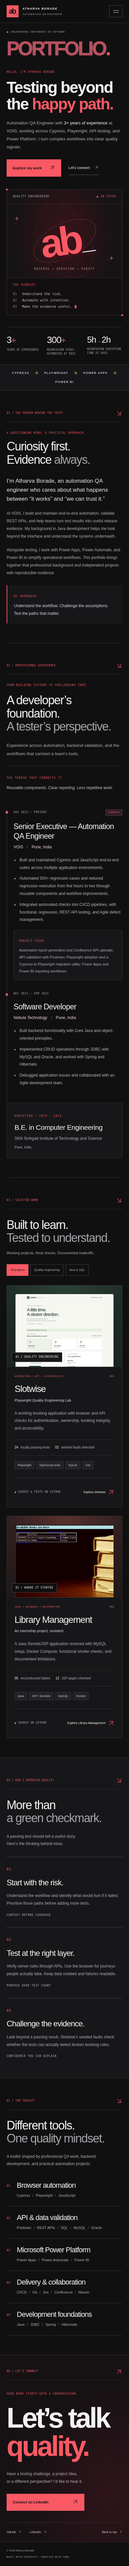
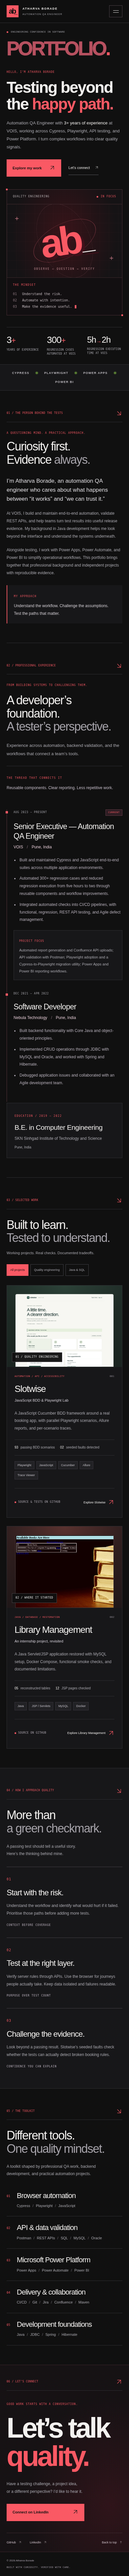
Show JavaScript Cucumber BDD, Allure and verified tracing in Slotwise portfolio

diff --git a/site/index.html b/site/index.html
@@ -38,7 +38,7 @@
 </div></div></section>
 <section class="section-wrap content-section" id="work" aria-labelledby="work-title"><div class="section-label"><span>03 / SELECTED WORK</span><span class="section-mark" aria-hidden="true"><svg class="arrow-icon" viewBox="0 0 24 24" aria-hidden="true"><path d="M6 6 18 18M6 18h12V6"/></svg></span></div><div class="section-heading"><div><h2 id="work-title">Built to learn.<br><span>Tested to understand.</span></h2><p>Working projects. Real checks. Documented tradeoffs.</p></div><div class="project-filters" role="group" aria-label="Filter projects"><button class="filter active" data-filter="all" aria-pressed="true">All projects</button><button class="filter" data-filter="quality" aria-pressed="false">Quality engineering</button><button class="filter" data-filter="java" aria-pressed="false">Java &amp; SQL</button></div></div><p id="filter-status" class="sr-only" role="status" aria-live="polite">Showing 2 projects</p>
 <div class="projects-grid">
-<article class="project-card featured" data-project="quality"><div class="project-visual slotwise-visual"><img src="assets/slotwise.png" width="1440" height="1286" loading="lazy" alt="Slotwise booking interface showing coach selection and a confirmed appointment"><span class="image-tag">01 / QUALITY ENGINEERING</span></div><div class="project-body"><div class="project-topline"><span class="project-category">AUTOMATION / API / ACCESSIBILITY</span><span class="project-index">001</span></div><h3>Slotwise</h3><p class="project-subtitle">Playwright Quality Engineering Lab</p><p>A working booking application with browser and API checks for authentication, ownership, booking integrity, and accessibility.</p><div class="project-evidence"><span><b>24</b> locally passing tests</span><span><b>02</b> seeded faults detected</span></div><div class="tags"><span>Playwright</span><span>TypeScript tests</span><span>SQLite</span><span>Axe</span></div><div class="project-footer"><span class="project-state"><span class="status-dot" aria-hidden="true"></span> SOURCE &amp; TESTS ON GITHUB</span><button class="case-study" data-case="slotwise">Explore Slotwise <span aria-hidden="true"><svg class="arrow-icon" viewBox="0 0 24 24" aria-hidden="true"><path d="M6 18 18 6M6 6h12v12"/></svg></span></button></div></div></article>
+<article class="project-card featured" data-project="quality"><div class="project-visual slotwise-visual"><img src="assets/slotwise.png" width="1440" height="1286" loading="lazy" alt="Slotwise booking interface showing coach selection and a confirmed appointment"><span class="image-tag">01 / QUALITY ENGINEERING</span></div><div class="project-body"><div class="project-topline"><span class="project-category">AUTOMATION / API / ACCESSIBILITY</span><span class="project-index">001</span></div><h3>Slotwise</h3><p class="project-subtitle">JavaScript BDD &amp; Playwright Lab</p><p>A JavaScript Cucumber BDD framework around a real booking app, with parallel Playwright scenarios, Allure reports, and per-scenario traces.</p><div class="project-evidence"><span><b>93</b> passing BDD scenarios</span><span><b>02</b> seeded faults detected</span></div><div class="tags"><span>Playwright</span><span>JavaScript</span><span>Cucumber</span><span>Allure</span><span>Trace Viewer</span></div><div class="project-footer"><span class="project-state"><span class="status-dot" aria-hidden="true"></span> SOURCE &amp; TESTS ON GITHUB</span><button class="case-study" data-case="slotwise">Explore Slotwise <span aria-hidden="true"><svg class="arrow-icon" viewBox="0 0 24 24" aria-hidden="true"><path d="M6 18 18 6M6 6h12v12"/></svg></span></button></div></div></article>
 <article class="project-card" data-project="java"><div class="project-visual library-visual"><img src="assets/library.png" width="1280" height="720" loading="lazy" alt="Original Library Management interface listing synthetic sample books"><span class="image-tag">02 / WHERE IT STARTED</span></div><div class="project-body"><div class="project-topline"><span class="project-category">JAVA / DATABASE / RESTORATION</span><span class="project-index">002</span></div><h3>Library Management</h3><p class="project-subtitle">An internship project, revisited</p><p>A Java Servlet/JSP application restored with MySQL setup, Docker Compose, functional smoke checks, and documented limitations.</p><div class="project-evidence"><span><b>05</b> reconstructed tables</span><span><b>12</b> JSP pages checked</span></div><div class="tags"><span>Java</span><span>JSP / Servlets</span><span>MySQL</span><span>Docker</span></div><div class="project-footer"><span class="project-state"><span class="status-dot" aria-hidden="true"></span> SOURCE ON GITHUB</span><button class="case-study" data-case="library">Explore Library Management <span aria-hidden="true"><svg class="arrow-icon" viewBox="0 0 24 24" aria-hidden="true"><path d="M6 18 18 6M6 6h12v12"/></svg></span></button></div></div></article>
 </div></section>
 <section class="process-section"><div class="section-wrap content-section"><div class="section-label"><span>04 / HOW I APPROACH QUALITY</span><span class="section-mark" aria-hidden="true"><svg class="arrow-icon" viewBox="0 0 24 24" aria-hidden="true"><path d="M6 6 18 18M6 18h12V6"/></svg></span></div><div class="section-heading"><h2>More than<br><span>a green checkmark.</span></h2><p class="process-intro">A passing test should tell a useful story.<br>Here’s the thinking behind mine.</p></div><div class="process-grid"><article><span class="step-number">01</span><h3>Start with the risk.</h3><p>Understand the workflow and identify what would hurt if it failed. Prioritise those paths before adding more tests.</p><span class="process-foot">CONTEXT BEFORE COVERAGE</span></article><article><span class="step-number">02</span><h3>Test at the right layer.</h3><p>Verify server rules through APIs. Use the browser for journeys people actually take. Keep data isolated and failures readable.</p><span class="process-foot">PURPOSE OVER TEST COUNT</span></article><article><span class="step-number">03</span><h3>Challenge the evidence.</h3><p>Look beyond a passing result. Slotwise’s seeded faults check whether the tests can actually detect broken booking rules.</p><span class="process-foot">CONFIDENCE YOU CAN EXPLAIN</span></article></div></div></section>

diff --git a/site/app.js b/site/app.js
@@ -59,17 +59,17 @@ for (const filter of filters) {
 
 const caseStudies = {
   slotwise: `
-    <h2 id="dialog-title" tabindex="-1">Slotwise — Playwright Quality Engineering Lab</h2>
-    <p>A small booking product paired with a risk-based automation suite. Its purpose is to demonstrate how tests protect booking integrity and account ownership.</p>
-    <img class="case-image" src="assets/slotwise.png" alt="Slotwise's booking screen with a confirmed appointment" width="1440" height="1286">
+    <h2 id="dialog-title" tabindex="-1">Slotwise — JavaScript BDD &amp; Playwright Lab</h2>
+    <p>A JavaScript Cucumber BDD framework paired with a real booking application. Playwright drives browser and API actions; Allure explains scenario results; Trace Viewer preserves recorded debugging evidence.</p>
+    <img class="case-image" src="assets/slotwise-allure.png" alt="Generated Allure dashboard showing 93 passed Cucumber scenarios" width="1440" height="1000">
     <h3>The engineering question</h3>
     <p>What stops two accounts from booking the same coach at the same time? And can a user cancel someone else’s appointment through the API?</p>
     <h3>What the project demonstrates</h3>
-    <ul><li>18 API checks and 6 browser checks, with isolated accounts and disposable databases.</li><li>Sequential and concurrent booking checks, authorization checks, and session revocation.</li><li>Axe accessibility scans, a keyboard check, and mobile layout checks.</li><li>Two test-only faults: removing booking uniqueness and removing cancellation ownership. The intended assertions detect both.</li><li>GitHub Actions runs the baseline suite and targeted fault experiments, with retained HTML/JSON reports and failure traces.</li></ul>
+    <ul><li>93 Gherkin scenarios: 73 API and 20 UI, implemented in JavaScript with Cucumber and Playwright.</li><li>Three parallel workers with scenario-isolated browser contexts, accounts, cookies, and disposable database fixtures.</li><li>Authentication, booking conflicts, cancellation, validation, authorization, keyboard/mobile journeys, and accessibility scans.</li><li>Two test-only faults: removing booking uniqueness and removing cancellation ownership. The intended assertions detect both.</li><li>Allure reporting with step screenshots and network summaries, plus recorded browser/API traces with Gherkin step groups, DOM snapshots, and native HTTP records.</li></ul>
     <h3>The evidence</h3>
-    <p>24 baseline tests passed locally and in GitHub Actions. Both seeded faults were detected. These are targeted experiments, not a complete security audit or mutation score.</p>
+    <p>93 scenarios and 586 steps passed locally and in GitHub Actions, with a separate three-worker headed-browser smoke check. Evidence verification confirmed three overlapping workers, 185 unique contexts, 370 trace archives, and 93 Allure results. Both seeded faults were detected. These are targeted experiments, not a complete security audit or mutation score.</p>
     <p class="case-status"><strong>Current status:</strong> Source published on GitHub. The full booking application runs locally; there is no public hosted booking service.</p>
-    <p><strong>Stack:</strong> Playwright, TypeScript tests, Express, SQLite, Axe, GitHub Actions configuration.</p>
+    <p><strong>Stack:</strong> JavaScript, Cucumber, Playwright, Allure, Trace Viewer, Express, SQLite, Axe, GitHub Actions.</p>
     <a class="button button-primary" href="https://github.com/atharvaborade/playwright-quality-lab" target="_blank" rel="noopener noreferrer">View project source <span aria-hidden="true"><svg class="arrow-icon" viewBox="0 0 24 24" aria-hidden="true"><path d="M6 18 18 6M6 6h12v12"/></svg></span></a>
   `,
   library: `

diff --git a/tests/portfolio.spec.js b/tests/portfolio.spec.js
@@ -39,7 +39,7 @@ test('case studies open the selected project and return focus after closing', as
   const slotwise = page.getByRole('button', { name: 'Explore Slotwise', exact: true });
   await slotwise.click();
   await expect(dialog).toBeVisible();
-  await expect(dialog.getByRole('heading', { name: 'Slotwise — Playwright Quality Engineering Lab', exact: true })).toBeVisible();
+  await expect(dialog.getByRole('heading', { name: 'Slotwise — JavaScript BDD & Playwright Lab', exact: true })).toBeVisible();
   await expect(dialog.getByRole('link', { name: 'View project source', exact: true })).toHaveAttribute('href', 'https://github.com/atharvaborade/playwright-quality-lab');
   await expect(dialog.locator('.case-status')).toContainText('Source published on GitHub');
   await dialog.getByRole('button', { name: 'Close case study', exact: true }).click();

diff --git a/docs/CONTENT-AND-VALIDATION.md b/docs/CONTENT-AND-VALIDATION.md
@@ -8,7 +8,7 @@
 - Education: B.E. Computer Engineering, SKN Sinhgad Institute of Technology and Science,2019–2022, Pune.
 - Career metrics:300+ automated regression cases and execution time reduced from5hours to2hours, as reported in the résumé. These are the user's professional claims, separate from locally verified portfolio test results.
 - LinkedIn: user supplied `https://www.linkedin.com/in/atharva-borade/`.
-- Slotwise evidence: locally recorded24 passing checks (18 API,6 browser),2 targeted seeded defects detected. Source is published at https://github.com/atharvaborade/playwright-quality-lab. Hosted type checking, the24-test baseline and both seeded faults passed in https://github.com/atharvaborade/playwright-quality-lab/actions/runs/42113819326.
+- Slotwise migration evidence:93 JavaScript Cucumber scenarios (73 API,20 UI),586 steps,3 observed parallel workers,185 uniquecontexts,370 tracearchives,93 Allure results,2 seededdefects caught locally. Current sourceURLunchanged. Hosted baseline, parallel evidence, three-worker headed smoke and seeded-fault checks passed in https://github.com/atharvaborade/playwright-quality-lab/actions/runs/42121961009.
 - Library Management evidence: previously pushed restoration;7 servlets compiled,12 JSP pages checked,5-table reconstruction and functional smoke workflow. No public application hosting claim.
 
 A résumé was supplied for professional details. Its original PDF, personal phone number and email address are intentionally not copied into the public site. LinkedIn is the contact route. Employer work is summarised without employer source code or internal project identifiers. No portrait or certification was provided. The reel is only an aesthetic reference.

diff --git a/README.md b/README.md
@@ -61,6 +61,6 @@ GitHub has confirmed a successful deployment to that address. Keep Pages → Sou
 
 Current content is based on the supplied résumé, the confirmed LinkedIn URL, and the recorded portfolio-project evidence. It includes the VOIS and Nebula Technology roles, degree, relevant tools, and résumé-reported career results. The original PDF, personal email, and phone number are not part of the published site. There is no portrait, fabricated certification, employer source code, or invented project outcome.
 
-Library Management source was published previously; its full app runs locally. Slotwise source and its CI workflow are now published at https://github.com/atharvaborade/playwright-quality-lab; the full booking app runs locally. Neither card claims a public live application.
+Library Management source was published previously; its full app runs locally. Slotwise is now a JavaScript Cucumber BDD + Playwright framework with Allure and per-scenario traces. Its93-scenario baseline and three-worker headed smoke passed on GitHub. Source: https://github.com/atharvaborade/playwright-quality-lab. The full booking app runs locally. Neither card claims a public live application.
 
 The supplied reel is a visual reference only. Its creator's identity, photographs, project claims and assets are not reused.
